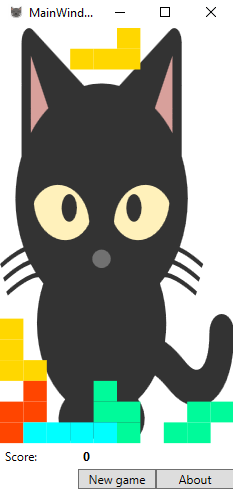
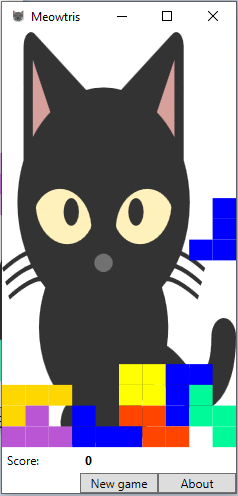
Bugfix - fixed random tetromino creation, screenshot, application title

diff --git a/Meowtris/MainWindow.xaml b/Meowtris/MainWindow.xaml
@@ -5,7 +5,7 @@
         xmlns:mc="http://schemas.openxmlformats.org/markup-compatibility/2006"
         xmlns:local="clr-namespace:Meowtris"
         mc:Ignorable="d"
-        Title="MainWindow" Height="500" Width="250" Name="mainWindow" KeyDown="Window_KeyDown" Loaded="MainWindow_Loaded">
+        Title="Meowtris" Height="500" Width="250" Name="mainWindow" KeyDown="Window_KeyDown" Loaded="MainWindow_Loaded">
 
     <Window.Resources>
         <Canvas x:Key="background" Name="svg9441" Width="75.999978" Height="89.999956">

diff --git a/Meowtris/TetrisLibrary/PositionedTetromino.cs b/Meowtris/TetrisLibrary/PositionedTetromino.cs
@@ -199,9 +199,10 @@ namespace TetrisLibrary
             }
         }
 
+        internal static readonly Random rnd = new Random();
+
         internal static PositionedTetromino CreateRandom()
         {
-            Random rnd = new Random();
             var type = (TetrominoType)rnd.Next(0, 7);
             switch (type)
             {
